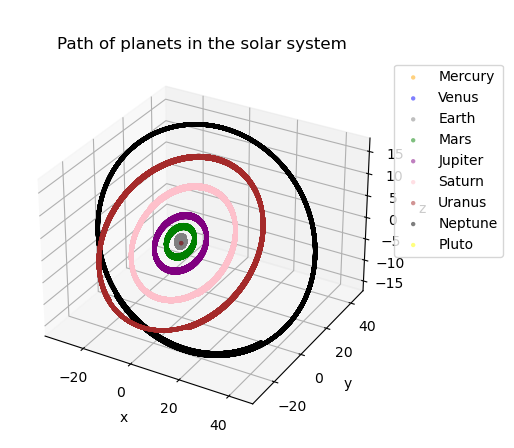
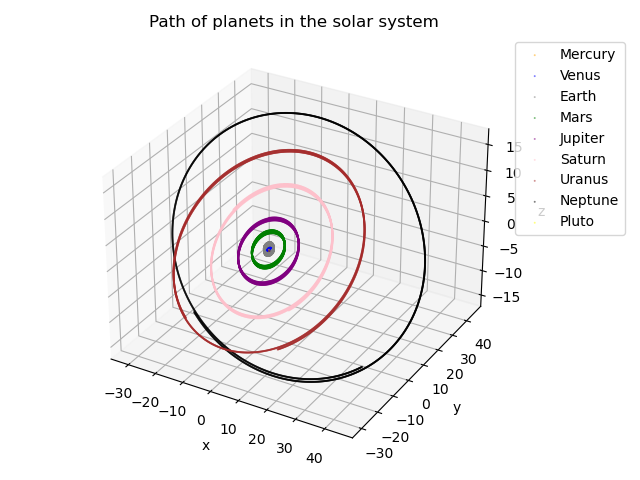
fixed some stuff

Changed region(s): [[0.0934, 0.0938, 0.9961, 0.9688], [0.0934, 0.0312, 0.6848, 0.125]]

diff --git a/Project_1/whole_solarsystem.py b/Project_1/whole_solarsystem.py
@@ -143,7 +143,7 @@ ax = fig.add_subplot(111, projection='3d')
 # Initialize the scatter plot objects for the bodies and with labels
 
 
-scatters = [ax.scatter([result[0, 1, 0]], [result[0, 1, 1]], [result[0, 1, 2]], s=100, facecolor="black",edgecolor='none')]
+scatters = [ax.scatter([result[0, 1, 0]], [result[0, 1, 1]], [result[0, 1, 2]], s=20, facecolor="black",edgecolor='none')]
 
 
 
@@ -215,12 +215,13 @@ ani = FuncAnimation(fig, update, frames=np.arange(0, len(result)), interval=10, 
 
 
 # Save the animation
-ani.save('solar_system.mp4', fps=30)
+writer=animation.FFMpegWriter(fps=30,extra_args=['-vcodec', 'libx264'])
+ani.save('whole_solar_system.mp4',writer=writer)
 
 
 
 
-# Display the animation
+
 import time 
 
 time.sleep(1)
@@ -237,7 +238,69 @@ print("1")
 #plt.show()
 plt.close()
 
-"""
+#set their color and size
+
+x_max=40
+x_min=-40
+y_max=40
+y_min=-40
+z_max=16
+z_min=-16
+ax.set_xlim(x_min,x_max)
+ax.set_ylim(y_min,y_max)
+ax.set_zlim(z_min,z_max)
+ax.set_xlabel('x')
+ax.set_ylabel('y')
+ax.set_zlabel('z')
+
+
+def update(num):
+    for text in ax.texts:
+            text.remove()
+    
+
+    for i, scatter in enumerate(scatters):
+
+            
+        #scatter.set_data(result[num, i, 0], result[num, i, 1])
+        scatter.set_offsets(result[num,:,:2])
+        #scatter.set_color(colors[i])
+        scatter.set_3d_properties(result[num, i, 2],zdir='z')
+           
+
+
+        
+
+
+        # Adding the labels for the planet
+        
+        #ax.text(result[num, i, 0], result[num, i, 1], result[num, i, 2], names[i], color='black')
+    ax.set_title('Solar system {} years'.format(round(num*h*300/365,1)))
+
+#set the color of the planets in the plot
+
+#ax.legend(names,loc='upper left',bbox_to_anchor=(1,1),prop={'size': 10})
+    
+    
+        
+
+
+# Create the animation
+ani = FuncAnimation(fig, update, frames=np.arange(0, len(result)), interval=10, blit=False)
+
+
+# Save the animation
+writer=animation.FFMpegWriter(fps=30,extra_args=['-vcodec', 'libx264'])
+#ani.save('whole_solar_system_zoom.mp4',writer=writer)
+
+plt.close()
+
+
+
+# Display the animation
+
+
+
 
 
 fig = plt.figure()
@@ -248,7 +311,7 @@ for i in range(len(x)):
         pass
     else:
         #make the edgecolor transparent so that the color of the planet is the same as the color of the path with thin lines
-        ax.scatter(result[:,i,0],result[:,i,1],result[:,i,2],alpha=0.5,facecolor=colors[i],edgecolor='none',label=names[i],s=10)
+        ax.scatter(result[:,i,0],result[:,i,1],result[:,i,2],alpha=0.5,facecolor=colors[i],edgecolor='none',label=names[i],s=2)
         #set their color and size
 
 
@@ -263,7 +326,8 @@ ax.set_title('Path of planets in the solar system')
 mng = plt.get_current_fig_manager()
 mng.resize(*mng.window.maxsize())
 
-
+#make the figure tight so that the legend is not cut off
+plt.tight_layout()
 plt.savefig('whole_solar_system.png')
 plt.show()
 plt.close()
@@ -279,7 +343,7 @@ for i in range(len(x)):
         pass
     else:
         #make the edgecolor transparent so that the color of the planet is the same as the color of the path with thin lines
-        ax.scatter(result[:,i,0],result[:,i,1],result[:,i,2],alpha=0.5,facecolor=colors[i],edgecolor='none',label=names[i],s=10)
+        ax.scatter(result[:,i,0],result[:,i,1],result[:,i,2],alpha=0.5,facecolor=colors[i],edgecolor='none',label=names[i],s=2)
         #set their color and size
 
 
@@ -291,7 +355,7 @@ ax.set_zlabel('z')
 ax.set_title('Path of planets in the solar system')
 mng = plt.get_current_fig_manager()
 mng.resize(*mng.window.maxsize())
-
+plt.tight_layout()
 plt.savefig('whole_solar_system_zoomedin.png')
 plt.show()
 

diff --git a/Project_1/Starting_values.py b/Project_1/Starting_values.py
@@ -16,7 +16,7 @@ Trojan2_mass=0
 
 masses=[Sun_mass,Jupiter_mass,Trojan1_mass,Trojan2_mass]
 names=["Sun","Jupiter","Trojan1","Trojan2"]
-
+colors=["yellow","green","red","blue"]
 x=[0,0,-4.503,4.503]
 y=[0, 5.2, 2.6, 2.6]
 z=[0,0,0,0]
@@ -104,7 +104,7 @@ ax = fig.add_subplot(111, projection='3d')
 # Initialize the scatter plot objects for the bodies and with labels
 
 
-scatters = [ax.scatter([result[0, i, 0]], [result[0, i, 1]], [result[0, i, 2]], s=100) for i in range(4)]
+scatters = [ax.scatter([result[0, i, 0]], [result[0, i, 1]], [result[0, i, 2]], s=20) for i in range(4)]
 
 
 
@@ -153,8 +153,10 @@ def update(num):
 ani = FuncAnimation(fig, update, frames=np.arange(0, len(result)), interval=10, blit=False)
 
 
-# Save the animation as a gif
-#ani.save('solar_system.gif', writer='imagemagick', fps=30)
+# Save the animation as a mp4
+writer=animation.FFMpegWriter(fps=30,extra_args=['-vcodec', 'libx264'])
+#ani.save('solar_system.mp4',writer=writer)
+
 
 
 # Save the animation
@@ -163,30 +165,60 @@ ani = FuncAnimation(fig, update, frames=np.arange(0, len(result)), interval=10, 
 
 
 # Display the animation
-plt.show()
+#plt.show()
 plt.close()
 
 fig = plt.figure()
 ax = fig.add_subplot(111, projection='3d')
 
 for i in range(4):
-    ax.scatter(result[:,i,0],result[:,i,1],result[:,i,2],alpha=0.5)
+    ax.scatter(result[:,i,0],result[:,i,1],result[:,i,2],alpha=0.5,facecolor=colors[i],edgecolor='none',label=names[i],s=2)
+ax.legend()
 ax.set_xlabel('x')
 ax.set_ylabel('y')
 ax.set_zlabel('z')
 ax.set_title('Path of planets in the solar system')
+mng = plt.get_current_fig_manager()
+mng.resize(*mng.window.maxsize())
 
-
+plt.tight_layout()
 plt.savefig('solar_system.png')
-plt.show()
+#plt.show()
+plt.close()
 
+fig = plt.figure()
+ax = fig.add_subplot(111, projection='3d')
+for i in range(4):
+    ax.scatter(result[:,i,0],result[:,i,1],result[:,i,2],alpha=0.5,facecolor=colors[i],edgecolor='none',label=names[i],s=2)
+ax.legend()
+
+#limit the plot to the outer ring of planets from x=2 to x=4 and y=2 to y=4
+ax.set_xlim(2,4)
+ax.set_ylim(2,4)
+ax.set_zlim(-0.5,0.5)
+ax.set_xlabel('x')
+ax.set_ylabel('y')
+ax.set_zlabel('z')
+ax.set_title('Path of planets in the solar system')
+mng = plt.get_current_fig_manager()
+mng.resize(*mng.window.maxsize())
+
+plt.tight_layout()
+
+plt.savefig('solar_system_zoomedin.png')
+#plt.show()
+plt.close()
+
+
+#print(energy_list)
 
 #import linspace to make a list of time values
 from numpy import linspace
 time=linspace(0,300,len(energy_list))
 mng = plt.get_current_fig_manager()
 mng.resize(*mng.window.maxsize())
-plt.plot(time,energy_list)
+#plot the points
+plt.plot(time,energy_list,'b*')
 plt.xlabel('time [years]')
 plt.ylabel('total energy [J]')
 plt.title('Total energy of the solar system')

diff --git a/Project_1/whole_solarsystem_python_rnge_kutta.py b/Project_1/whole_solarsystem_python_rnge_kutta.py
@@ -165,7 +165,7 @@ ax = fig.add_subplot(111, projection='3d')
 # Initialize the scatter plot objects for the bodies and with labels
 
 
-scatters = [ax.scatter([result[0, 1, 0]], [result[0, 1, 1]], [result[0, 1, 2]], s=100, facecolor="black",edgecolor='none')]
+scatters = [ax.scatter([result[0, 1, 0]], [result[0, 1, 1]], [result[0, 1, 2]], s=20, facecolor="black",edgecolor='none')]
 
 
 
@@ -237,8 +237,8 @@ ani = FuncAnimation(fig, update, frames=np.arange(0, len(result)), interval=10, 
 
 
 # Save the animation as a mp4 file
-ani.save('solar_system_no_murc_integrator.mp4', fps=30)
-
+writer=animation.FFMpegWriter(fps=30,extra_args=['-vcodec', 'libx264'])
+ani.save('solar_system_no_murc_integrator.mp4',writer=writer)
 
 
 # Display the animation
@@ -269,7 +269,7 @@ for i in range(len(x)):
         pass
     else:
         #make the edgecolor transparent so that the color of the planet is the same as the color of the path with thin lines
-        ax.scatter(result[:,i,0],result[:,i,1],result[:,i,2],alpha=0.5,facecolor=colors[i],edgecolor='none',label=names[i],s=10)
+        ax.scatter(result[:,i,0],result[:,i,1],result[:,i,2],alpha=0.5,facecolor=colors[i],edgecolor='none',label=names[i],s=2)
         #set their color and size
 
 
@@ -284,7 +284,7 @@ ax.set_title('Path of planets in the solar system')
 mng = plt.get_current_fig_manager()
 mng.resize(*mng.window.maxsize())
 
-
+plt.tight_layout()
 plt.savefig('whole_solar_system_no_murc_integrator.png')
 plt.show()
 plt.close()
@@ -300,7 +300,7 @@ for i in range(len(x)):
         pass
     else:
         #make the edgecolor transparent so that the color of the planet is the same as the color of the path with thin lines
-        ax.scatter(result[:,i,0],result[:,i,1],result[:,i,2],alpha=0.5,facecolor=colors[i],edgecolor='none',label=names[i],s=10)
+        ax.scatter(result[:,i,0],result[:,i,1],result[:,i,2],alpha=0.5,facecolor=colors[i],edgecolor='none',label=names[i],s=2)
         #set their color and size
 
 
@@ -312,7 +312,7 @@ ax.set_zlabel('z')
 ax.set_title('Path of planets in the solar system')
 mng = plt.get_current_fig_manager()
 mng.resize(*mng.window.maxsize())
-
+plt.tight_layout()
 plt.savefig('whole_solar_system_no_murc_integrator_zoomedin.png')
 plt.show()
 
